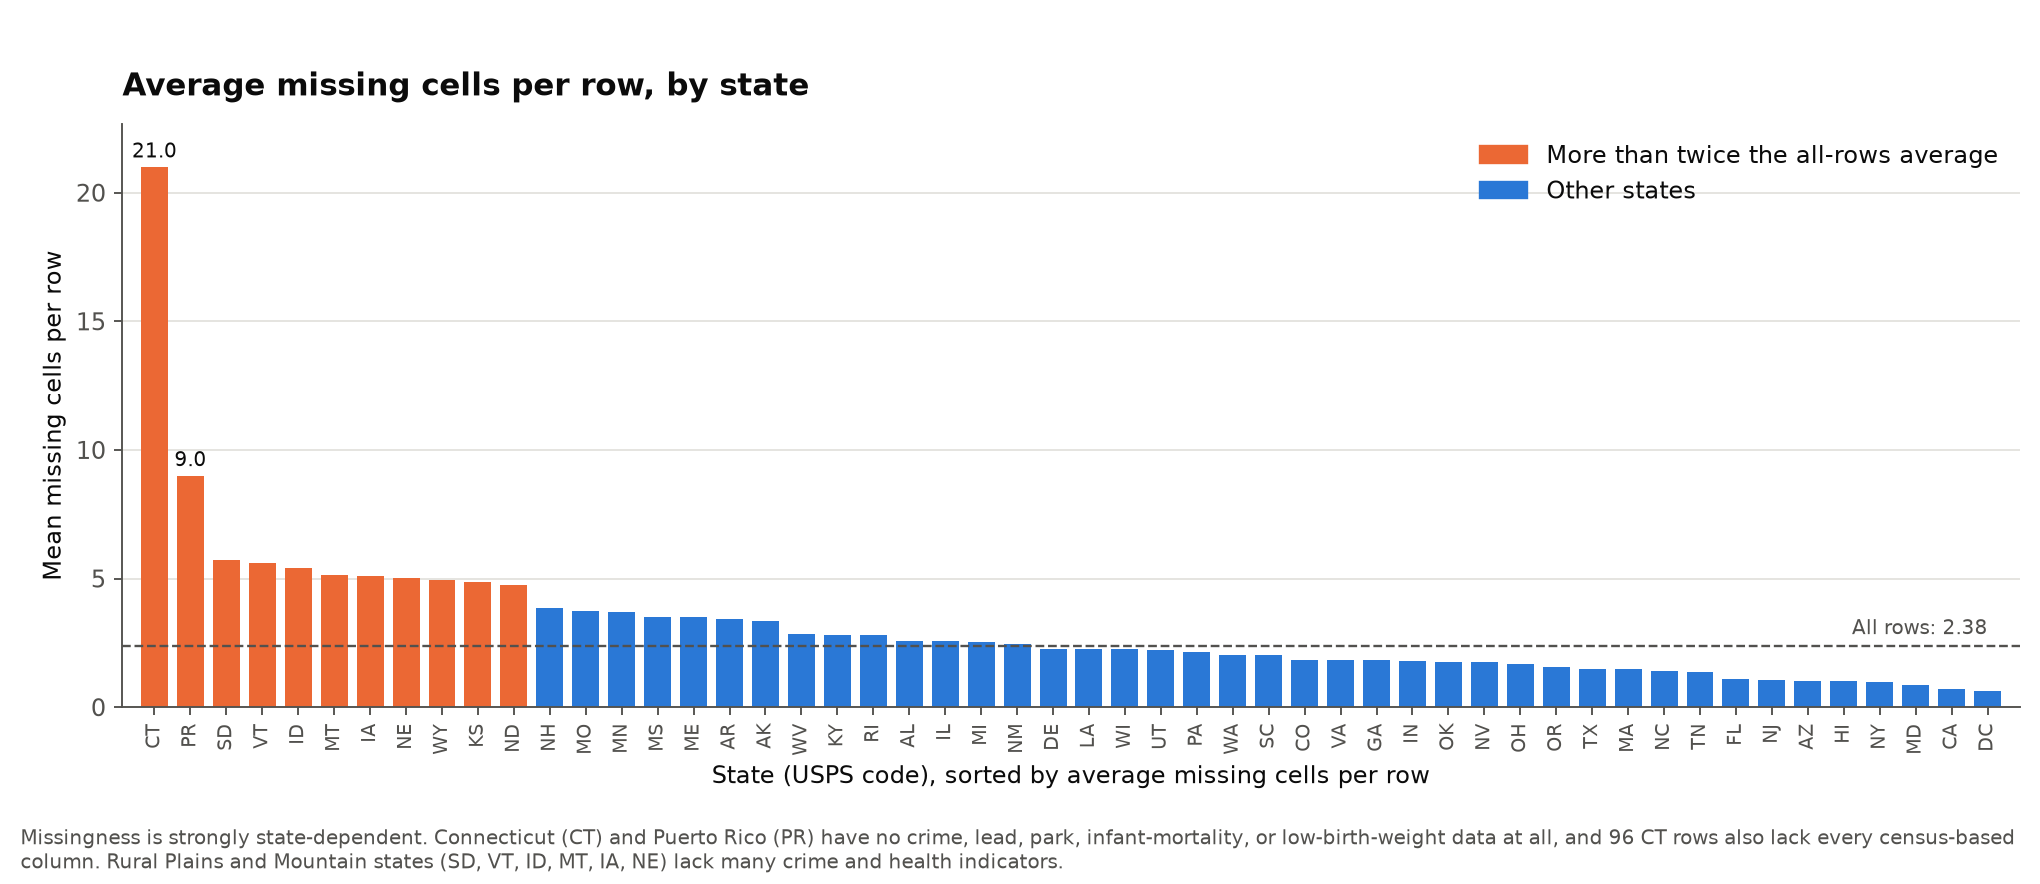
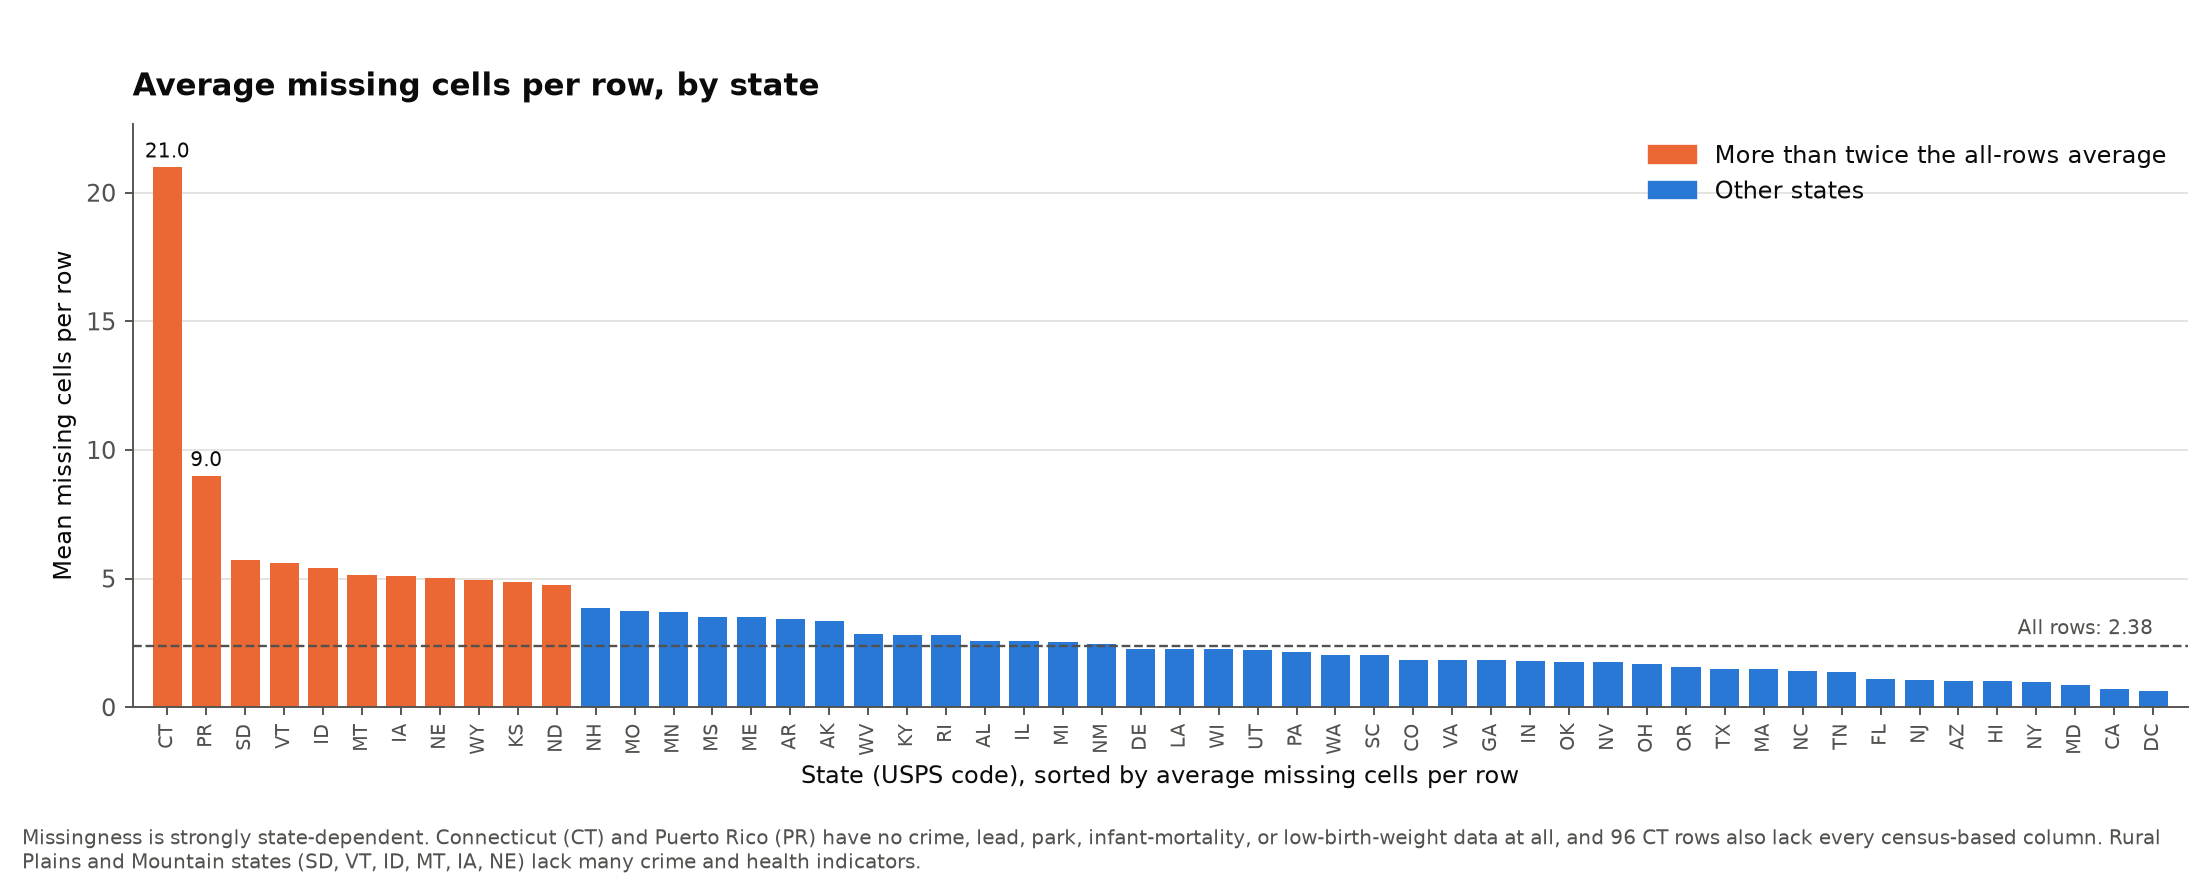
Fix colliding bar labels in the per-row and per-state charts

diff --git a/analysis/01_data_overview.py b/analysis/01_data_overview.py
@@ -138,7 +138,7 @@ def recessive_grid(ax, axis):
 
 def plot_rows_per_state(df):
     counts = df["State"].value_counts().sort_values(ascending=False)
-    fig, ax = plt.subplots(figsize=(12, 5.2))
+    fig, ax = plt.subplots(figsize=(13, 5.2))
     fig.subplots_adjust(left=0.06, right=0.99, top=0.86, bottom=0.2)
     ax.bar(counts.index, counts.values, color=BLUE, width=0.75)
     recessive_grid(ax, "y")
@@ -147,10 +147,10 @@ def plot_rows_per_state(df):
     ax.set_ylabel("Rows (high schools)")
     ax.tick_params(axis="x", labelsize=8, rotation=90)
     ax.margins(x=0.01)
-    ax.set_ylim(0, counts.max() * 1.08)
+    ax.set_ylim(0, counts.max() * 1.05)
     for state in counts.index[:3]:
-        ax.annotate(f"{counts[state]:,}", (state, counts[state]), ha="center", va="bottom",
-                    fontsize=8.5, color=INK, xytext=(0, 2), textcoords="offset points")
+        ax.annotate(f"{counts[state]:,}", (state, counts[state]), ha="center", va="top", rotation=90,
+                    fontsize=8.5, color="white", fontweight="bold", xytext=(0, -5), textcoords="offset points")
     fewest = " and ".join(sorted(counts.index[counts == counts.min()]))
     caption(fig, f"One row = one US public high school. Median {int(counts.median())} rows per state; "
                  f"{counts.index[0]} has the most ({counts.iloc[0]:,}); {fewest} have the fewest ({counts.iloc[-1]}). "
@@ -162,7 +162,7 @@ def plot_rows_per_state(df):
 def plot_missing_per_row(per_row):
     dist = per_row.value_counts().sort_index()
     full = dist.reindex(range(0, int(per_row.max()) + 1), fill_value=0)
-    fig, ax = plt.subplots(figsize=(11, 5.2))
+    fig, ax = plt.subplots(figsize=(14, 5.2))
     fig.subplots_adjust(left=0.08, right=0.99, top=0.86, bottom=0.2)
     colors = [AQUA if k == 0 else (ORANGE if k >= 26 else BLUE) for k in full.index]
     ax.bar(full.index, full.values, color=colors, width=0.8)
@@ -174,7 +174,7 @@ def plot_missing_per_row(per_row):
     ax.tick_params(axis="x", labelsize=8)
     ax.margins(x=0.01)
     for k, v in dist.items():
-        ax.annotate(f"{v:,}", (k, v), ha="center", va="bottom", fontsize=7.5, color=INK,
+        ax.annotate(f"{v:,}", (k, v), ha="center", va="bottom", fontsize=7, color=INK,
                     xytext=(0, 2), textcoords="offset points")
     handles = [plt.Rectangle((0, 0), 1, 1, color=c) for c in (AQUA, BLUE, ORANGE)]
     ax.legend(handles, [b[0] for b in BANDS], frameon=False, loc="upper right", title="Band")
@@ -252,7 +252,7 @@ def plot_missing_by_state(df, missing, per_row):
     }).sort_values("mean_missing", ascending=False)
     overall = per_row.mean()
 
-    fig, ax = plt.subplots(figsize=(12, 5.2))
+    fig, ax = plt.subplots(figsize=(13, 5.2))
     fig.subplots_adjust(left=0.06, right=0.99, top=0.86, bottom=0.2)
     colors = [ORANGE if v > 2 * overall else BLUE for v in by_state["mean_missing"]]
     ax.bar(by_state.index, by_state["mean_missing"], color=colors, width=0.75)
